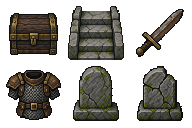
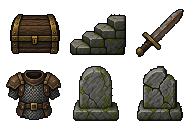
Add raised dungeon walls and seamless perspective props

Changed region(s): [[0.3438, 0.0312, 0.6562, 0.4688], [0.0312, 0.0938, 0.3125, 0.4375]]

diff --git a/app.js b/app.js
@@ -1,5 +1,6 @@
+import {standingBox,sortByFoot,foregroundWallOpacity,drawFootShadow} from './scene-depth.js';
 import {drawProp} from './prop-view.js';
-import {drawCryptTile} from './terrain-view.js';
+import {drawCryptTile,drawRaisedWall} from './terrain-view.js';
 import {requestLandscapeDisplay} from './display-mode.js';
 import {openingVariant} from './opening.js';
 import {createLogVisibility} from './log-visibility.js';
@@ -42,39 +43,51 @@ const sprites={
  stairs:['............','.........ll.','.......llbl.','.....llbbbl.','...llbbbbbl.','.llbbbbbbbl.','.lbbbbbbbbl.','.llllllllll.','............','............','............','............']};
 const propsAtlas=new Image();propsAtlas.src=$('map').dataset.props;document.documentElement.style.setProperty('--prop-atlas','url("'+propsAtlas.src+'")');
 const palette={h:'#57695a',b:'#e2dfbd',d:'#27352f',a:'#899e85',s:'#b8b2a1',g:'#3e715f',l:'#9bbba6',r:'#66424a',p:'#ad7276',y:'#bfa266',o:'#634e32',Y:'#e3d49d'};
-function sprite(ctx,type,x,y,size=24){if(drawProp(ctx,propsAtlas,type,x,y,size))return;const rows=sprites[type]||(['tombstone','tombstone-cracked'].includes(type)?['............','....aaaa....','...abbbba...','..abbbbbba..','..abdbbbba..','..abbdbbba..','..abbbbbba..','..abbbbbba..','..abbbbbba..','.aabbbbbbaa.','.aaaaaaaaaa.','............']:sprites.reward);const scale=size/12;for(let py=0;py<rows.length;py++)for(let px=0;px<rows[py].length;px++){const c=rows[py][px];if(c!=='.'&&palette[c]){ctx.fillStyle=palette[c];ctx.fillRect(x+px*scale,y+py*scale,Math.ceil(scale),Math.ceil(scale));}}}
+function sprite(ctx,type,x,y,size=24,height=size){if(drawProp(ctx,propsAtlas,type,x,y,size,height))return;const rows=sprites[type]||(['tombstone','tombstone-cracked'].includes(type)?['............','....aaaa....','...abbbba...','..abbbbbba..','..abdbbbba..','..abbdbbba..','..abbbbbba..','..abbbbbba..','..abbbbbba..','.aabbbbbbaa.','.aaaaaaaaaa.','............']:sprites.reward);const scale=size/12,scaleY=height/12;for(let py=0;py<rows.length;py++)for(let px=0;px<rows[py].length;px++){const c=rows[py][px];if(c!=='.'&&palette[c]){ctx.fillStyle=palette[c];ctx.fillRect(x+px*scale,y+py*scaleY,Math.ceil(scale),Math.ceil(scaleY));}}}
 const ctx=$('map').getContext('2d');ctx.imageSmoothingEnabled=false;
 const cryptAtlas=new Image();cryptAtlas.src=$('map').dataset.terrain;
 function draw(){
-const scene=state.seed+':'+state.floor;if(damageScene!==scene){damagePopups=[];damageScene=scene;}
-// Fixed Full HD drawing surface; CSS scales the 16:9 scene to the device.
-const map=$('map');if(map.width!==1920||map.height!==1080){map.width=1920;map.height=1080;ctx.imageSmoothingEnabled=false;}
-ctx.fillStyle='#0c1416';ctx.fillRect(0,0,ctx.canvas.width,ctx.canvas.height);const theme=zoneFor(state);const visible=(x,y)=>canSee(state,x,y);
-const progress=motion&&state.phase==='explore'?Math.min(1,(performance.now()-motion.time)/motion.duration):1;
-const eased=1-Math.pow(1-progress,3);
-const position=motion?{x:motion.from.x+(state.player.x-motion.from.x)*eased,y:motion.from.y+(state.player.y-motion.from.y)*eased}:state.player;
-const moving=motion&&(motion.from.x!==state.player.x||motion.from.y!==state.player.y);
-const hop=moving?Math.sin(progress*Math.PI)*2:0;
-const camera=cameraFor(position,radius(state),ctx.canvas.width,ctx.canvas.height);
-ctx.save();ctx.scale(camera.scale,camera.scale);ctx.translate(-camera.left,-camera.top);
-
-const graves=new Set((state.obstacles||[]).map(o=>o.x+','+o.y));
-for(let y=0;y<H;y++)for(let x=0;x<W;x++){const seen=state.seen[y][x],floor=state.grid[y][x]||graves.has(x+','+y);if(!seen)continue;const px=x*24,py=y*24,n=(x*17+y*31+state.seed)%13;if(theme.id==='crypt'&&drawCryptTile(ctx,cryptAtlas,state.grid,x,y,state.seed,24,Boolean(floor))){if(!visible(x,y)){ctx.fillStyle='#071111a8';ctx.fillRect(px,py,24,24);}continue;}ctx.fillStyle=floor?theme.floorColor:theme.wallColor;ctx.fillRect(px,py,24,24);if(floor){ctx.fillStyle='#172722';ctx.fillRect(px,py,24,1);ctx.fillRect(px,py,1,24);if(n<4){ctx.fillStyle='#435044';ctx.fillRect(px+5+n,py+8,2,2);ctx.fillRect(px+15,py+16,3,1);}if(n===5){ctx.fillStyle='#354b39';ctx.fillRect(px+2,py+15,6,3);}}else{ctx.fillStyle=theme.wallColor;ctx.fillRect(px+1,py+1,22,3);ctx.fillStyle='#182925';ctx.fillRect(px,py+20,24,4);ctx.fillRect(px+11,py+4,2,16);}if(!visible(x,y)){ctx.fillStyle='#071111a8';ctx.fillRect(px,py,24,24);}}
-const stair=state.stairs;if(state.seen[stair.y][stair.x]){ctx.fillStyle='#88c2ac19';ctx.fillRect(stair.x*24-4,stair.y*24-4,32,32);sprite(ctx,'stairs',stair.x*24,stair.y*24);}
-for(const o of state.obstacles||[])if(state.seen[o.y][o.x]){ctx.globalAlpha=visible(o.x,o.y)?1:.4;sprite(ctx,o.variant?'tombstone-cracked':'tombstone',o.x*24,o.y*24);}ctx.globalAlpha=1;
-for(const i of state.items)if(state.seen[i.y][i.x]){ctx.globalAlpha=visible(i.x,i.y)?1:.4;sprite(ctx,i.type==='letter'?'chest':i.type==='gear'&&gearById[i.gear.baseId].slot==='armor'?'armor':i.type,i.x*24,i.y*24);if(i.type==='chest'&&i.locked){ctx.fillStyle='#d8ca8a';ctx.fillRect(i.x*24+10,i.y*24+10,4,5);}if(i.type==='letter'){ctx.fillStyle='#d8ca8a';ctx.fillRect(i.x*24+10,i.y*24+5,4,4);}}ctx.globalAlpha=1;
-for(const t of state.traps||[])if(t.revealed&&(state.gimmick?.id==='traps'||state.seen[t.y][t.x])){ctx.fillStyle=t.spent?'#7e7769':'#d7b278';ctx.fillRect(t.x*24+6,t.y*24+14,12,3);ctx.fillStyle='#d1b88b';for(let i=0;i<3;i++)ctx.fillRect(t.x*24+7+i*4,t.y*24+10,2,4);}
-for(const e of state.enemies)if(visible(e.x,e.y)){const original={g:palette.g,l:palette.l,r:palette.r,p:palette.p};if(e.type==='slime'){palette.g=theme.wallColor;palette.l='#c0c7b1';}else{palette.r=theme.floorColor;palette.p=theme.wallColor;}sprite(ctx,e.type,e.x*24,e.y*24);if(e.boss){ctx.strokeStyle='#dfba6b';ctx.lineWidth=2;ctx.strokeRect(e.x*24-2,e.y*24-2,28,28);}Object.assign(palette,original);ctx.fillStyle='#a06c70';ctx.fillRect(e.x*24+6,e.y*24+21,12,2);}
-ctx.fillStyle='#bfd49e20';ctx.fillRect(position.x*24-4,position.y*24-4,32,32);sprite(ctx,'skeleton',position.x*24,position.y*24-hop);
-if(state.flash){ctx.fillStyle=state.flash.kind==='hurt'?'#e49a8c66':'#fff3b766';ctx.fillRect(state.flash.x*24,state.flash.y*24,24,24);}
-const now=performance.now();damagePopups=damagePopups.filter(p=>damageFrame(p,now).alive);
-for(const p of damagePopups){if(!p.hero&&!visible(p.x,p.y))continue;const frame=damageFrame(p,now),at=p.hero?position:p;
- ctx.save();ctx.globalAlpha=frame.alpha;ctx.font='bold 11px monospace';ctx.textAlign='center';ctx.textBaseline='bottom';ctx.lineWidth=2.5;ctx.strokeStyle='#200909';ctx.fillStyle='#ff5656';
- const x=at.x*24+12,y=at.y*24-2-frame.rise;ctx.strokeText(String(p.damage),x,y);ctx.fillText(String(p.damage),x,y);ctx.restore();}
-ctx.restore();
-if(state.gimmick?.id==='fog'){ctx.fillStyle='#a6bdc620';ctx.fillRect(0,0,ctx.canvas.width,ctx.canvas.height);}
-drawAutoMap();
+ const scene=state.seed+':'+state.floor;if(damageScene!==scene){damagePopups=[];damageScene=scene;}
+ const map=$('map');if(map.width!==1920||map.height!==1080){map.width=1920;map.height=1080;ctx.imageSmoothingEnabled=false;}
+ ctx.fillStyle='#0c1416';ctx.fillRect(0,0,map.width,map.height);const theme=zoneFor(state),visible=(x,y)=>canSee(state,x,y);
+ const progress=motion&&state.phase==='explore'?Math.min(1,(performance.now()-motion.time)/motion.duration):1,eased=1-Math.pow(1-progress,3);
+ const position=motion?{x:motion.from.x+(state.player.x-motion.from.x)*eased,y:motion.from.y+(state.player.y-motion.from.y)*eased}:state.player;
+ const moving=motion&&(motion.from.x!==state.player.x||motion.from.y!==state.player.y),hop=moving?Math.sin(progress*Math.PI)*2:0;
+ const camera=cameraFor(position,radius(state),map.width,map.height);ctx.save();ctx.scale(camera.scale,camera.scale);ctx.translate(-camera.left,-camera.top);
+ const graves=new Set((state.obstacles||[]).map(o=>o.x+','+o.y)),surface=state.grid.map((r,y)=>r.map((v,x)=>(v||graves.has(x+','+y))?1:0)),queue=[];
+ for(let y=0;y<H;y++)for(let x=0;x<W;x++){
+  if(!state.seen[y][x])continue;const floor=Boolean(surface[y][x]),px=x*24,py=y*24,n=(x*17+y*31+state.seed)%13;
+  if(!(theme.id==='crypt'&&drawCryptTile(ctx,cryptAtlas,surface,x,y,state.seed,24,floor))){
+   ctx.fillStyle=floor?theme.floorColor:theme.wallColor;ctx.fillRect(px,py,24,24);
+   if(floor&&n<4){ctx.fillStyle='#435044';ctx.fillRect(px+5+n,py+8,2,2);}
+  }
+  if(!visible(x,y)){ctx.fillStyle='#071111a8';ctx.fillRect(px,py,24,24);}
+  if(!floor)queue.push({footY:(y+1)*24,layer:0,x,draw(){ctx.save();ctx.globalAlpha=(visible(x,y)?1:.4)*foregroundWallOpacity(x,y,position);drawRaisedWall(ctx,cryptAtlas,surface,x,y,state.seed,theme);ctx.restore();}});
+ }
+ const stair=state.stairs;if(state.seen[stair.y][stair.x])sprite(ctx,'stairs',stair.x*24,stair.y*24);
+ for(const t of state.traps||[])if(t.revealed&&(state.gimmick?.id==='traps'||state.seen[t.y][t.x])){ctx.fillStyle=t.spent?'#7e7769':'#d7b278';ctx.fillRect(t.x*24+6,t.y*24+14,12,3);ctx.fillStyle='#d1b88b';for(let i=0;i<3;i++)ctx.fillRect(t.x*24+7+i*4,t.y*24+10,2,4);}
+ function entity(o,type,{standing=false,layer=1,hero=false,enemy=false}={}){
+  const at=hero?position:o,box=standing?standingBox(at.x,at.y):{x:at.x*24,y:at.y*24,width:24,height:24,footY:(at.y+1)*24};
+  queue.push({footY:box.footY,layer,x:at.x,draw(){ctx.save();ctx.globalAlpha=hero||visible(o.x,o.y)?1:.4;
+   if(standing||type==='chest')drawFootShadow(ctx,at.x,at.y);
+   const oldPalette={g:palette.g,l:palette.l,r:palette.r,p:palette.p};if(enemy){if(type==='slime'){palette.g=theme.wallColor;palette.l='#c0c7b1';}else{palette.r=theme.floorColor;palette.p=theme.wallColor;}}
+   sprite(ctx,type,box.x,box.y-(hero?hop:0),box.width,box.height);if(enemy)Object.assign(palette,oldPalette);
+   // The chest artwork supplies its own latch: no oversized yellow lock rectangle.
+   if(o.type==='letter'){ctx.fillStyle='#292a26';ctx.fillRect(box.x+15,box.y+3,8,6);ctx.fillStyle='#e4dfc3';ctx.fillRect(box.x+16,box.y+4,6,4);}
+   if(enemy){if(o.boss){ctx.strokeStyle='#dfba6b';ctx.lineWidth=1;ctx.strokeRect(box.x-1,box.y-1,box.width+2,box.height+2);}ctx.fillStyle='#a06c70';ctx.fillRect(box.x+6,box.y-3,12,2);}
+   ctx.restore();}});
+ }
+ for(const o of state.obstacles||[])if(state.seen[o.y][o.x])entity(o,o.variant?'tombstone-cracked':'tombstone',{standing:true});
+ for(const i of state.items)if(state.seen[i.y][i.x])entity(i,i.type==='letter'?'chest':i.type==='gear'&&gearById[i.gear.baseId].slot==='armor'?'armor':i.type);
+ for(const e of state.enemies)if(visible(e.x,e.y))entity(e,e.type,{standing:true,layer:2,enemy:true});
+ entity(state.player,'skeleton',{standing:true,layer:3,hero:true});
+ for(const object of sortByFoot(queue))object.draw();
+ if(state.flash){ctx.fillStyle=state.flash.kind==='hurt'?'#e49a8c55':'#fff3b755';ctx.fillRect(state.flash.x*24,state.flash.y*24,24,24);}
+ const now=performance.now();damagePopups=damagePopups.filter(p=>damageFrame(p,now).alive);
+ for(const p of damagePopups){if(!p.hero&&!visible(p.x,p.y))continue;const frame=damageFrame(p,now),at=p.hero?position:p;ctx.save();ctx.globalAlpha=frame.alpha;ctx.font='bold 11px monospace';ctx.textAlign='center';ctx.textBaseline='bottom';ctx.lineWidth=2.5;ctx.strokeStyle='#200909';ctx.fillStyle='#ff5656';const x=at.x*24+12,y=at.y*24-7-frame.rise;ctx.strokeText(String(p.damage),x,y);ctx.fillText(String(p.damage),x,y);ctx.restore();}
+ ctx.restore();if(state.gimmick?.id==='fog'){ctx.fillStyle='#a6bdc620';ctx.fillRect(0,0,map.width,map.height);}drawAutoMap();
 }
+
 function drawAutoMap(){
  const canvas=$('auto-map'),geometry=miniMapGeometry(W,H,$('map').clientWidth<420?4:6);
  if(canvas.width!==geometry.width||canvas.height!==geometry.height){canvas.width=geometry.width;canvas.height=geometry.height;}

diff --git a/index.html b/index.html
@@ -1,6 +1,6 @@
 <!doctype html>
 <html lang="ja" data-startup>
-<head><style id="startup-style">html[data-startup],html[data-startup] body{margin:0;background:#070b0d;overflow:hidden}html[data-startup] body>:not(#startup-status):not(noscript){opacity:0!important;visibility:hidden!important;pointer-events:none!important}#startup-status{position:fixed;inset:0;z-index:10000;display:flex;flex-direction:column;align-items:center;justify-content:center;gap:16px;margin:0;padding:24px;background:#070b0d;color:#c7c8cc;font:14px/1.8 sans-serif;text-align:center}#startup-status[hidden]{display:none!important}#startup-retry{padding:10px 18px;border:1px solid #878b92;border-radius:4px;background:#303237;color:#eee;font:inherit}#startup-retry[hidden]{display:none}</style><meta charset="UTF-8"><meta name="viewport" content="width=device-width,initial-scale=1,viewport-fit=cover"><meta name="theme-color" content="#292b2f"><title>骸の旅路 — 記憶の迷宮</title><link rel="icon" href="./favicon.svg" type="image/svg+xml"><link rel="stylesheet" href="./style.css?v=3cd92b8defd9"><link rel="stylesheet" href="./screens.css?v=84abb3294ebd"><script type="importmap" id="asset-imports">{"imports":{"./app.js":"./app.js?v=33ab993640b3","./card-editor.js":"./card-editor.js?v=9f414a2401b8","./card-orders.js":"./card-orders.js?v=22d39b6f3656","./card-placement.js":"./card-placement.js?v=ba89d062078a","./crypt-obstacles.js":"./crypt-obstacles.js?v=0eb17b194410","./damage-view.js":"./damage-view.js?v=ad25349b42a6","./data.js":"./data.js?v=87a169e56fe8","./debug-tools.js":"./debug-tools.js?v=b3570b35de1c","./display-mode.js":"./display-mode.js?v=0d319d85d979","./drop-system.js":"./drop-system.js?v=b8c8f62615d4","./engine.js":"./engine.js?v=a1d03fe51224","./field-events.js":"./field-events.js?v=fefe89646906","./game-engine.js":"./game-engine.js?v=031c0c72a522","./log-visibility.js":"./log-visibility.js?v=24b41cce5805","./map-discovery.js":"./map-discovery.js?v=61d3f0296e0b","./map-view.js":"./map-view.js?v=c1af6a4f362c","./opening.js":"./opening.js?v=c016e59422d1","./orders.js":"./orders.js?v=ece4aeb56abe","./progression.js":"./progression.js?v=fefc50a042f2","./prop-view.js":"./prop-view.js?v=974540e4de17","./skill-tree.js":"./skill-tree.js?v=a443f7cda48c","./story-text.js":"./story-text.js?v=f19cd5bc24e8","./terrain-view.js":"./terrain-view.js?v=b37decba2cf3","./thought-view.js":"./thought-view.js?v=0591f0aa4307"}}</script></head>
+<head><style id="startup-style">html[data-startup],html[data-startup] body{margin:0;background:#070b0d;overflow:hidden}html[data-startup] body>:not(#startup-status):not(noscript){opacity:0!important;visibility:hidden!important;pointer-events:none!important}#startup-status{position:fixed;inset:0;z-index:10000;display:flex;flex-direction:column;align-items:center;justify-content:center;gap:16px;margin:0;padding:24px;background:#070b0d;color:#c7c8cc;font:14px/1.8 sans-serif;text-align:center}#startup-status[hidden]{display:none!important}#startup-retry{padding:10px 18px;border:1px solid #878b92;border-radius:4px;background:#303237;color:#eee;font:inherit}#startup-retry[hidden]{display:none}</style><meta charset="UTF-8"><meta name="viewport" content="width=device-width,initial-scale=1,viewport-fit=cover"><meta name="theme-color" content="#292b2f"><title>骸の旅路 — 記憶の迷宮</title><link rel="icon" href="./favicon.svg" type="image/svg+xml"><link rel="stylesheet" href="./style.css?v=3cd92b8defd9"><link rel="stylesheet" href="./screens.css?v=84abb3294ebd"><script type="importmap" id="asset-imports">{"imports":{"./app.js":"./app.js?v=7532504e4e21","./card-editor.js":"./card-editor.js?v=9f414a2401b8","./card-orders.js":"./card-orders.js?v=22d39b6f3656","./card-placement.js":"./card-placement.js?v=ba89d062078a","./crypt-obstacles.js":"./crypt-obstacles.js?v=0eb17b194410","./damage-view.js":"./damage-view.js?v=ad25349b42a6","./data.js":"./data.js?v=87a169e56fe8","./debug-tools.js":"./debug-tools.js?v=b3570b35de1c","./display-mode.js":"./display-mode.js?v=0d319d85d979","./drop-system.js":"./drop-system.js?v=b8c8f62615d4","./engine.js":"./engine.js?v=a1d03fe51224","./field-events.js":"./field-events.js?v=fefe89646906","./game-engine.js":"./game-engine.js?v=031c0c72a522","./log-visibility.js":"./log-visibility.js?v=24b41cce5805","./map-discovery.js":"./map-discovery.js?v=61d3f0296e0b","./map-view.js":"./map-view.js?v=c1af6a4f362c","./opening.js":"./opening.js?v=c016e59422d1","./orders.js":"./orders.js?v=ece4aeb56abe","./progression.js":"./progression.js?v=fefc50a042f2","./prop-view.js":"./prop-view.js?v=3b986f2d4c8f","./scene-depth.js":"./scene-depth.js?v=59c81e4b3127","./skill-tree.js":"./skill-tree.js?v=a443f7cda48c","./story-text.js":"./story-text.js?v=f19cd5bc24e8","./terrain-view.js":"./terrain-view.js?v=1c8c6a747c3e","./thought-view.js":"./thought-view.js?v=0591f0aa4307"}}</script></head>
 <body>
 <div id="startup-status" role="status" aria-live="polite"><span id="startup-message">読み込み中…</span><button id="startup-retry" type="button" hidden>再読み込み</button></div>
 <noscript><style>#startup-status{display:none!important}</style><p style="color:#eee;padding:24px">ゲームを遊ぶにはJavaScriptを有効にしてください。</p></noscript>
@@ -11,7 +11,7 @@
 <div class="workspace" id="workspace" data-screen="prepare">
 <section id="awakening-scene" class="awakening-scene panel" hidden><p class="eyebrow">A FRAGMENT OF MEMORY</p><h2>骨の奥に、かすかな記憶がある。</h2><p id="awakening-copy">名前も、顔も、思い出せない。それでも、上へ行かなければ。</p><div id="awakening-start"><button id="primary" class="primary">思い出す</button></div></section>
 <section class="prepare-scene preparation panel" id="prepare-scene"><div class="panel-heading"><h2 id="prepare-floor">次の階への支度</h2><span class="tag">PREPARATION</span></div><div class="preparation-launch"><div class="launch-area" id="launch-area"><button id="prepare-status" class="secondary">状態</button><button id="prepare-journal" class="secondary">旅の記録</button><button id="abandon-run" class="secondary abandon-run">あきらめる</button></div><div class="prep-foot"><span>✦</span><p id="prep-note"></p></div></div><nav class="tabs" aria-label="準備メニュー"><button data-tab="orders" class="active">探索指示</button><button data-tab="gear">装備</button><button data-tab="skills">スキルツリー</button></nav><div id="tab-content"></div></section>
-<section class="adventure panel"><div class="dungeon-viewport transparent-view" aria-label="探索ゲーム画面"><div class="map-wrap" id="map-wrap"><canvas id="map" data-props="./art/props/atlas-32.png?v=9c7312ab327a" data-terrain="./art/terrain/crypt/atlas-32.png?v=17dbecc1a81f" width="1920" height="1080" aria-label="自動探索するダンジョン。詳しい行動は右下の旅の記録で確認できます。"></canvas><div class="map-vignette"></div>
+<section class="adventure panel"><div class="dungeon-viewport transparent-view" aria-label="探索ゲーム画面"><div class="map-wrap" id="map-wrap"><canvas id="map" data-props="./art/props/atlas-32.png?v=8e3eab8f6414" data-terrain="./art/terrain/crypt/atlas-32.png?v=172cc9ac90d9" width="1920" height="1080" aria-label="自動探索するダンジョン。詳しい行動は右下の旅の記録で確認できます。"></canvas><div class="map-vignette"></div>
 <div class="hud-overlay hud-overlay-top" id="hud-top" aria-label="階層・レベル・経験値・HP・図鑑・オプション・記憶の欠片"><div class="floor-health"><strong id="floor-title" class="hud-stage-title">忘れられた地下墓所 · B30</strong><canvas id="portrait" width="56" height="56" hidden aria-hidden="true"></canvas><div id="level-vitals" class="level-vitals" role="img" aria-label="レベル1、経験値0"><strong id="level-text">Lv.1</strong><div class="exp-track"><div id="exp-bar"></div></div></div><div class="player-vitals"><div class="player-name"><strong>HP</strong><span id="hp-text"></span></div><div class="hp-track"><div id="hp-bar"></div></div><small id="intent" hidden></small></div></div><div id="hud-tools"></div><div class="hud-fragments"><small>記憶の欠片</small><b id="hud-shards">12</b></div></div>
 <div class="hud-alerts"><div id="field-gimmick" class="field-gimmick" role="status" hidden></div><div id="floor-message" class="floor-message" role="status" hidden></div></div><div class="automap-overlay"><canvas id="auto-map" width="187" height="139" aria-label="入室済みの部屋と発見済み通路のマップ"></canvas></div><div id="map-notice" class="map-notice" hidden><div id="notice-copy"></div><div id="notice-actions"></div><div id="notice-hint"></div></div><div id="field-log-host" class="field-log-host" aria-label="旅の記録チャット"></div>
 <div class="hud-overlay hud-overlay-bottom" id="hud-bottom" aria-label="骸の思考と探索操作"><div class="thought-stack"><p id="memory-quote" class="memory-subtitle">名前も、顔も、思い出せない。それでも、上へ行かなければ。</p><p id="thought-subtitle" class="thought-subtitle" role="status" aria-live="polite" aria-label="骸のひとりごと"></p></div><div class="hud-bottom-controls"><div class="hud-value"><small>ATK</small><b id="atk">8</b></div><div class="hud-value"><small>DEF</small><b id="def">1</b></div><div class="hud-value"><small>視界範囲</small><b id="hud-sight">3マス</b></div><span id="turn" class="hud-turn">TURN 000</span><div class="speed" role="group" aria-label="探索速度"><button data-speed="1" class="active">1×</button><button data-speed="2">2×</button><button data-speed="4">4×</button></div><button id="pause-toggle" class="pause-toggle" hidden>ひとやすみ</button></div></div></div></div>

diff --git a/scene-depth.test.js b/scene-depth.test.js
@@ -1,0 +1,18 @@
+import test from 'node:test';import assert from 'node:assert/strict';import {standingBox,sortByFoot,foregroundWallOpacity} from './scene-depth.js';import {drawRaisedWall} from './terrain-view.js';import {readPng} from './test-support/png.js';
+test('standing sprites retain the same feet and depth order at fractional movement positions',()=>{
+ for(const size of [24,32])for(const y of [0,2,3.5]){const b=standingBox(2.25,y,size);assert.equal(b.y+b.height,b.footY);assert.equal(b.footY,(y+1)*size);assert.ok(b.height>size);}
+ const input=[{id:'front wall',footY:72,layer:0},{id:'hero',footY:48,layer:3},{id:'grave',footY:48,layer:1},{id:'rear wall',footY:24,layer:0}],before=JSON.stringify(input);assert.deepEqual(sortByFoot(input).map(o=>o.id),['rear wall','grave','hero','front wall']);assert.equal(JSON.stringify(input),before);
+ assert.ok(foregroundWallOpacity(2,3,{x:2,y:2})<1);assert.equal(foregroundWallOpacity(2,1,{x:2,y:2}),1);assert.equal(foregroundWallOpacity(5,3,{x:2,y:2}),1);
+});
+test('raised crypt walls lift their cap and add front faces only toward floor',()=>{
+ const calls=[],ctx={drawImage(...a){calls.push(a);},fillRect(){},beginPath(){},moveTo(){},lineTo(){},closePath(){},fill(){},stroke(){}},atlas={complete:true,naturalWidth:64,naturalHeight:64},theme={id:'crypt',wallColor:'#666'};
+ drawRaisedWall(ctx,atlas,[[0,0,0],[0,0,0],[0,1,0]],1,1,8,theme);assert.equal(calls.length,2);assert.equal(calls[0][6],12);assert.equal(calls[1][6],36);
+ calls.length=0;drawRaisedWall(ctx,atlas,[[0,0,0],[0,0,0],[0,0,0]],1,1,8,theme);assert.equal(calls.length,1);
+ const lines=[],sideCtx={...ctx,lineTo(x,y){lines.push([x,y]);}};drawRaisedWall(sideCtx,atlas,[[1,0,0],[1,0,0],[1,0,0]],1,1,8,theme);assert.deepEqual(lines.slice(0,2),[[24,12],[24,36]]);
+});
+test('all terrain variants have pixel-identical opposite edges after PNG encoding',()=>{
+ for(const [file,size]of [['master-64.png',64],['atlas-32.png',32]]){const p=readPng(new URL('./art/terrain/crypt/'+file,import.meta.url));for(let family=0;family<2;family++)for(let a=0;a<2;a++)for(let b=0;b<2;b++)for(let n=0;n<size;n++){assert.deepEqual(p.pixel(a*size+size-1,family*size+n),p.pixel(b*size,family*size+n));assert.deepEqual(p.pixel(a*size+n,family*size+size-1),p.pixel(b*size+n,family*size));}}
+});
+test('prop PNGs retain binary alpha and clear borders after repainting',()=>{
+ for(const [file,size]of [['master-64.png',64],['atlas-32.png',32]]){const p=readPng(new URL('./art/props/'+file,import.meta.url));for(let y=0;y<p.height;y++)for(let x=0;x<p.width;x++){const a=p.pixel(x,y)[3];assert.ok(a===0||a===255);if(x%size===0||x%size===size-1||y%size===0||y%size===size-1)assert.equal(a,0);}}
+});

diff --git a/terrain-view.js b/terrain-view.js
@@ -12,10 +12,27 @@ export function drawCryptTile(ctx,atlas,grid,x,y,seed,size=24,walkable=Boolean(g
  ctx.drawImage(atlas,frame.x,frame.y,32,32,px,py,size,size);
  const north=Boolean(grid[y-1]?.[x]),south=Boolean(grid[y+1]?.[x]),west=Boolean(grid[y]?.[x-1]),east=Boolean(grid[y]?.[x+1]),edge=size/32;
  if(floor){ctx.fillStyle='#07110b48';if(!north)ctx.fillRect(px,py,size,edge*2);if(!west)ctx.fillRect(px,py,edge*2,size);}
- else{
-  if(south){ctx.fillStyle='#17231dcc';ctx.fillRect(px,py+size-edge*5,size,edge*5);ctx.fillStyle='#879384';ctx.fillRect(px,py+size-edge*5,size,edge);}
-  ctx.fillStyle='#a2ada080';if(north)ctx.fillRect(px,py,size,edge);if(west)ctx.fillRect(px,py,edge,size);
-  ctx.fillStyle='#0c161cb0';if(east)ctx.fillRect(px+size-edge,py,edge,size);
- }
+
  return true;
+}
+
+// Wall cap is lifted half a cell. Only a south-facing boundary receives a front face.
+export function drawRaisedWall(ctx,atlas,grid,x,y,seed,theme,size=24){
+ const px=x*size,py=y*size,rise=size*.5,edge=size/32,face=Boolean(grid[y+1]?.[x]),west=Boolean(grid[y]?.[x-1]),east=Boolean(grid[y]?.[x+1]);
+ const textured=theme.id==='crypt'&&atlas.complete&&atlas.naturalWidth===64&&atlas.naturalHeight===64,frame=cryptTileFrame(false,x,y,seed);
+ ctx.imageSmoothingEnabled=false;
+ if(textured)ctx.drawImage(atlas,frame.x,frame.y,32,32,px,py-rise,size,size);else{ctx.fillStyle=theme.wallColor;ctx.fillRect(px,py-rise,size,size);}
+ if(face){
+  if(textured)ctx.drawImage(atlas,frame.x,frame.y+16,32,16,px,py+size-rise,size,rise);else{ctx.fillStyle=theme.wallColor;ctx.fillRect(px,py+size-rise,size,rise);}
+  ctx.fillStyle='#0b1518a6';ctx.fillRect(px,py+size-rise,size,rise);
+  ctx.fillStyle='#aab4a780';ctx.fillRect(px,py+size-rise,size,edge);
+  ctx.fillStyle='#07100ee0';ctx.fillRect(px,py+size-edge,size,edge);
+ }
+ for(const side of [west?'left':null,east?'right':null].filter(Boolean)){
+  const outer=side==='left'?px:px+size,inner=side==='left'?px+size*.22:px+size-size*.22,neighborX=side==='left'?x-1:x+1;
+  const above=grid[y-1]?.[x]===0&&Boolean(grid[y-1]?.[neighborX]),below=grid[y+1]?.[x]===0&&Boolean(grid[y+1]?.[neighborX]);
+  ctx.beginPath();ctx.moveTo(inner,py-rise);ctx.lineTo(outer,above?py-rise:py);ctx.lineTo(outer,below?py+size-rise:py+size);ctx.lineTo(inner,py+size-rise);ctx.closePath();
+  ctx.fillStyle=theme.id==='crypt'?'#3b4740':theme.wallColor;ctx.fill();ctx.fillStyle=side==='left'?'#a2ada02b':'#07121a55';ctx.fill();
+  ctx.beginPath();ctx.moveTo(inner,py-rise);ctx.lineTo(inner,py+size-rise);ctx.strokeStyle='#aab4a766';ctx.lineWidth=edge;ctx.stroke();
+ }
 }

diff --git a/test-support/png.js b/test-support/png.js
@@ -1,0 +1,12 @@
+import {readFileSync} from 'node:fs';import {inflateSync} from 'node:zlib';
+// Test-only PNG reader: 8-bit RGB/RGBA and indexed 1/2/4/8-bit, all standard filters.
+export function readPng(path){const b=readFileSync(path),parts=[];let width,height,depth,type,palette,alpha;
+ for(let p=8;p<b.length;){const length=b.readUInt32BE(p),name=b.toString('ascii',p+4,p+8),data=b.subarray(p+8,p+8+length);if(name==='IHDR'){width=data.readUInt32BE(0);height=data.readUInt32BE(4);depth=data[8];type=data[9];if(data[12])throw Error('Interlaced test PNG not supported');}if(name==='PLTE')palette=data;if(name==='tRNS')alpha=data;if(name==='IDAT')parts.push(data);p+=12+length;}
+ const channels=type===6?4:type===2?3:type===3?1:0;if(!channels||type!==3&&depth!==8)throw Error('Unsupported PNG');
+ const stride=Math.ceil(width*channels*depth/8),bpp=Math.max(1,Math.ceil(channels*depth/8)),raw=inflateSync(Buffer.concat(parts)),rows=Buffer.alloc(stride*height),rgba=Buffer.alloc(width*height*4);let pos=0;
+ const paeth=(a,b,c)=>{const p=a+b-c,da=Math.abs(p-a),db=Math.abs(p-b),dc=Math.abs(p-c);return da<=db&&da<=dc?a:db<=dc?b:c;};
+ for(let y=0;y<height;y++){const filter=raw[pos++];for(let x=0;x<stride;x++){const a=x>=bpp?rows[y*stride+x-bpp]:0,up=y?rows[(y-1)*stride+x]:0,ul=y&&x>=bpp?rows[(y-1)*stride+x-bpp]:0;rows[y*stride+x]=(raw[pos++]+[0,a,up,Math.floor((a+up)/2),paeth(a,up,ul)][filter])&255;}
+  for(let x=0;x<width;x++){const i=(y*width+x)*4;if(type===3){const bit=x*depth,index=(rows[y*stride+Math.floor(bit/8)]>>(8-depth-bit%8))&((1<<depth)-1);for(let c=0;c<3;c++)rgba[i+c]=palette[index*3+c];rgba[i+3]=alpha?.[index]??255;}else{for(let c=0;c<3;c++)rgba[i+c]=rows[y*stride+x*channels+c];rgba[i+3]=channels===4?rows[y*stride+x*4+3]:255;}}
+ }
+ return {width,height,pixel:(x,y)=>[...rgba.subarray((y*width+x)*4,(y*width+x)*4+4)]};
+}

diff --git a/scripts/build-crypt-tiles.js b/scripts/build-crypt-tiles.js
@@ -1,3 +1,4 @@
+import {stitchTileEdges} from './lib/tile-edges.js';
 import {fileURLToPath,pathToFileURL} from 'node:url';
 import {resolve} from 'node:path';
 // Sharp is needed only when rebuilding artwork; it is not a browser dependency.
@@ -6,5 +7,6 @@ const directory=fileURLToPath(new URL('../art/terrain/crypt/',import.meta.url));
 const source=directory+'master-64.png',target=directory+'atlas-32.png';
 const meta=await sharp(source).metadata();
 if(meta.width!==128||meta.height!==128)throw new Error('Expected a 2x2 atlas of 64px master tiles');
-await sharp(source).resize(64,64,{kernel:'nearest'}).png({palette:true,colours:32,dither:0}).toFile(target);
+const {data,info}=await sharp(source).resize(64,64,{kernel:'nearest'}).removeAlpha().raw().toBuffer({resolveWithObject:true});
+await sharp(stitchTileEdges(data,64,32,info.channels),{raw:info}).png({palette:true,colours:32,dither:0}).toFile(target);
 console.log('Built atlas-32.png: four 32px tiles, nearest-neighbor, <=32 colors.');

diff --git a/prop-view.js b/prop-view.js
@@ -1,2 +1,2 @@
 export const PROP_FRAMES={chest:[0,0],stairs:[1,0],gear:[2,0],armor:[0,1],tombstone:[1,1],'tombstone-cracked':[2,1]};
-export function drawProp(ctx,atlas,type,x,y,size=24){const cell=PROP_FRAMES[type];if(!cell||!atlas.complete||atlas.naturalWidth!==96||atlas.naturalHeight!==64)return false;ctx.imageSmoothingEnabled=false;ctx.drawImage(atlas,cell[0]*32,cell[1]*32,32,32,x,y,size,size);return true;}
+export function drawProp(ctx,atlas,type,x,y,size=24,height=size){const cell=PROP_FRAMES[type];if(!cell||!atlas.complete||atlas.naturalWidth!==96||atlas.naturalHeight!==64)return false;ctx.imageSmoothingEnabled=false;ctx.drawImage(atlas,cell[0]*32,cell[1]*32,32,32,x,y,size,height);return true;}

diff --git a/scene-depth.js b/scene-depth.js
@@ -1,0 +1,5 @@
+export const WALL_RISE=.5;
+export function standingBox(x,y,size=24,stretch=1.18){return {x:x*size,y:(y+1)*size-size*stretch,width:size,height:size*stretch,footY:(y+1)*size};}
+export function sortByFoot(objects){return [...objects].sort((a,b)=>a.footY-b.footY||(a.layer??0)-(b.layer??0)||(a.x??0)-(b.x??0));}
+export function foregroundWallOpacity(x,y,hero,size=24){const box=standingBox(hero.x,hero.y,size);return y>hero.y&&y<=hero.y+1.6&&x*size<box.x+box.width&&(x+1)*size>box.x ? .48 : 1;}
+export function drawFootShadow(ctx,x,y,size=24){ctx.save();ctx.fillStyle='#07100d66';ctx.beginPath();ctx.ellipse((x+.5)*size,(y+.88)*size,size*.29,size*.09,0,0,Math.PI*2);ctx.fill();ctx.restore();}

diff --git a/scripts/lib/tile-edges.js b/scripts/lib/tile-edges.js
@@ -1,0 +1,10 @@
+// One shared periodic edge per family; no solid border or blended edge band.
+export function stitchTileEdges(input,width,tile,channels){
+ const out=Buffer.from(input),copy=(dx,dy,sx,sy)=>{for(let c=0;c<channels;c++)out[(dy*width+dx)*channels+c]=input[(sy*width+sx)*channels+c];};
+ for(let row=0;row<2;row++)for(let variant=0;variant<2;variant++){
+  const x0=variant*tile,y0=row*tile;
+  for(let n=0;n<tile;n++){copy(x0,y0+n,0,y0+n);copy(x0+tile-1,y0+n,0,y0+n);copy(x0+n,y0,n,y0);copy(x0+n,y0+tile-1,n,y0);}
+  for(const x of [x0,x0+tile-1])for(const y of [y0,y0+tile-1])copy(x,y,0,y0);
+ }
+ return out;
+}

diff --git a/art/props/PROMPT.md b/art/props/PROMPT.md
@@ -1,5 +1,11 @@
 # Final built-in image_gen prompt
 
+## 2026-10-28 perspective revision
+
+Edit the existing 3-column, 2-row transparent pixel-art atlas. Repaint only the TOP LEFT chest and TOP MIDDLE stairs. Chest: slight overhead front three-quarter view, visible lid, short front, tiny native latch, no large yellow lock rectangle. Stairs: ASCEND LEFT TO RIGHT, three to four steps progressing horizontally, visible dark riser faces, no enclosing pillars, not a vertical staircase. Keep a square orthographic footprint, not an isometric diamond. Match muted crypt stone, brown and dull bronze colors, crisp limited-palette pixel clusters, transparent background. Keep the other four cells unchanged.
+
+Only the first two cells of the generated result were adopted into the existing atlas. Other four cells retained from the previous master. Large source retained locally outside Git.
+
 Reference: art/terrain/crypt/master-64.png. Transparent background enabled.
 
 Use case: stylized-concept. Create a landscape 3:2 sprite atlas of SIX individual objects for an original top-down Japanese dungeon roguelike. EXACTLY 3 equal columns and 2 equal rows. Each cell is an independent square 64x64 logical pixel sprite enlarged with crisp square blocks. Transparent background in every cell, NO drawn grid, NO text, no margins between cells except each sprite's transparent padding. Fill each sprite about 80 percent of its cell, all objects fully contained with generous clear padding. TOP LEFT: a closed dark wooden treasure chest, dull bronze bands, simple latch, no separate floating lock. TOP MIDDLE: stone stairs ascending toward the upper edge of the tile, broad visible steps, warm pale grey stone, no surrounding floor square. TOP RIGHT: a rusty short iron sword lying diagonally across the cell. BOTTOM LEFT: a simple worn leather-and-chain armor breastplate for a ground equipment pickup. BOTTOM MIDDLE: an upright rounded grey crypt gravestone on a small stone base, its front visible from the slight overhead game view; no readable inscription or cross. BOTTOM RIGHT: a compatible cracked gravestone variant, same scale and silhouette. Match the supplied stone tile palette and atmosphere: muted grey, moss green, worn brown, bone beige, restrained dull gold. Classic low-resolution crisp pixel art, restrained flat-color clusters, strong readable silhouettes and dark outlines. Slight overhead orthographic game view, not isometric. No realistic painting, no smooth shading, no antialiasing, no bloom, no external cast shadow, no characters, no decorative illustration background. This is production terrain-prop artwork to be reduced from 64px masters to 32px delivery sprites.

diff --git a/art/terrain/crypt/README.md b/art/terrain/crypt/README.md
@@ -2,10 +2,12 @@
 
 - master-64.png：64pxタイル4枚の制作原本（128×128、48色以下）。
 - atlas-32.png：32pxタイル4枚の配信用アトラス（64×64、32色以下）。
-- 左上／右上は床2種、左下／右下は壁2種。64px原本からnearest-neighborで生成。床のコントラストを抑え、各セルの外周色を揃えている。壁の床に接する辺は実行時に境界を補う。
+- 左上／右上は床2種、左下／右下は壁2種。64px原本からnearest-neighborで生成。周期的な石模様と共通の端画素を持たせ、同系統のどの組合せでも上下左右が接続する。単色の外周枠は付けない。scripts/lib/tile-edges.jsで配信版の端を揃える。
 
 原案は内蔵image_genで制作したローカルのart/samples/field-resolution-2026-10-28/source-64.png。大きい生成原案・比較画像はGit対象外。原本64pxと配信用32pxだけをGit管理する（合計32KiB以下をテスト）。PNGの一括拡大でゲームへ64px適用するのではなく、原本を編集して32px版を再生成する。
 
 再生成：Sharp導入環境でnode scripts/build-crypt-tiles.js。第1引数にSharpのモジュールファイルパスも指定可能。Sharpは制作時だけ必要。
 
-本編では地下墓所だけに適用。他エリアは従来の描画。キャラクターは従来の仮素材。歩行判定・マップデータは変更せず、論理座標24pxへテクスチャ32pxを描画する。
+本編のテクスチャは地下墓所だけに適用。他エリアは従来色。全エリアで壁の上面を0.5マス上げ、正面と側面を描く。キャラクターは従来の仮素材。歩行判定・マップデータは変更せず、論理座標24pxへテクスチャ32pxを描画する。
+
+2026-10-28改訂容量：原本5228 bytes＋配信2869 bytes＝8097 bytes。64px・32px双方で同系統の全バリアントの対向辺が一致することをテストする。
